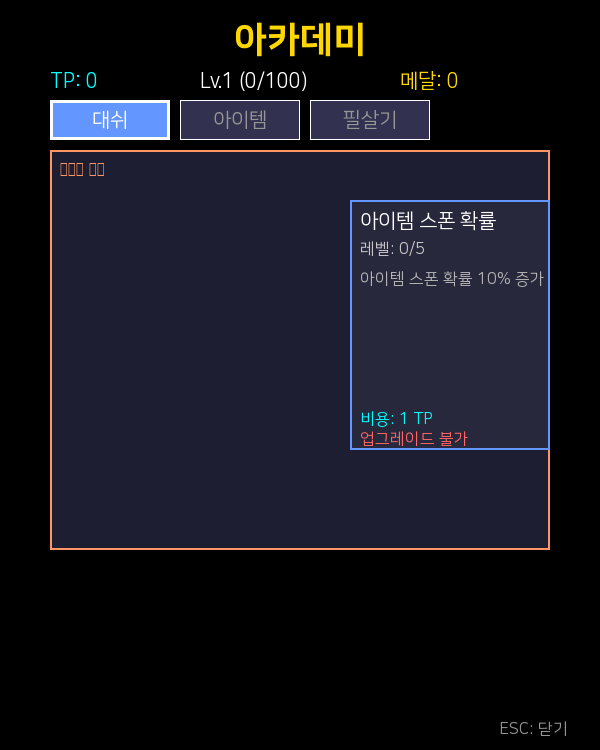
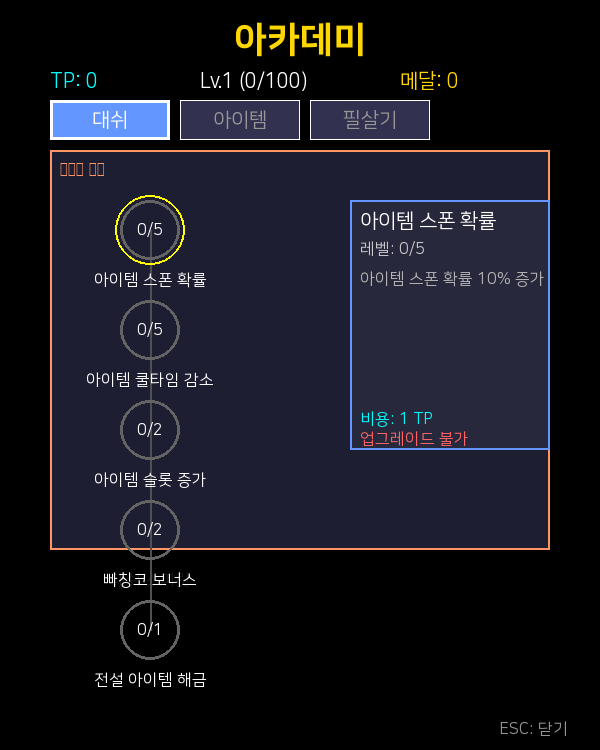
Auto-save #19: Python 코드 업데이트 - 2025-09-22 18:58:45

diff --git a/ui/academy_ui.py b/ui/academy_ui.py
@@ -103,7 +103,8 @@ class SkillNode:
 class SkillTreeUI:
     """스킬 트리 UI"""
     
-    def __init__(self, tree_data: Dict, x: int, y: int, width: int, height: int):
+    def __init__(self, tree_id: str, tree_data: Dict, x: int, y: int, width: int, height: int):
+        self.tree_id = tree_id
         self.tree_data = tree_data
         self.x = x
         self.y = y
@@ -142,7 +143,7 @@ class SkillTreeUI:
                     
     def update(self, dt: float, academy_mode):
         """스킬 트리 업데이트"""
-        tree = academy_mode.skill_trees.get(self.tree_data['name'])
+        tree = academy_mode.skill_trees.get(self.tree_id)
         if not tree:
             return
             
@@ -167,7 +168,7 @@ class SkillTreeUI:
         screen.blit(title_surface, title_rect)
         
         # 연결선 그리기
-        tree = academy_mode.skill_trees.get(self.tree_data['name'])
+        tree = academy_mode.skill_trees.get(self.tree_id)
         if tree:
             for req_id, skill_id in self.connections:
                 if req_id in self.nodes and skill_id in self.nodes:
@@ -259,7 +260,7 @@ class AcademyUI:
         y_offset = 150
         for tree_id, data in tree_data.items():
             self.skill_tree_uis[tree_id] = SkillTreeUI(
-                data, 50, y_offset, self.width - 100, 400
+                tree_id, data, 50, y_offset, self.width - 100, 400
             )
             
     def _create_tabs(self):
